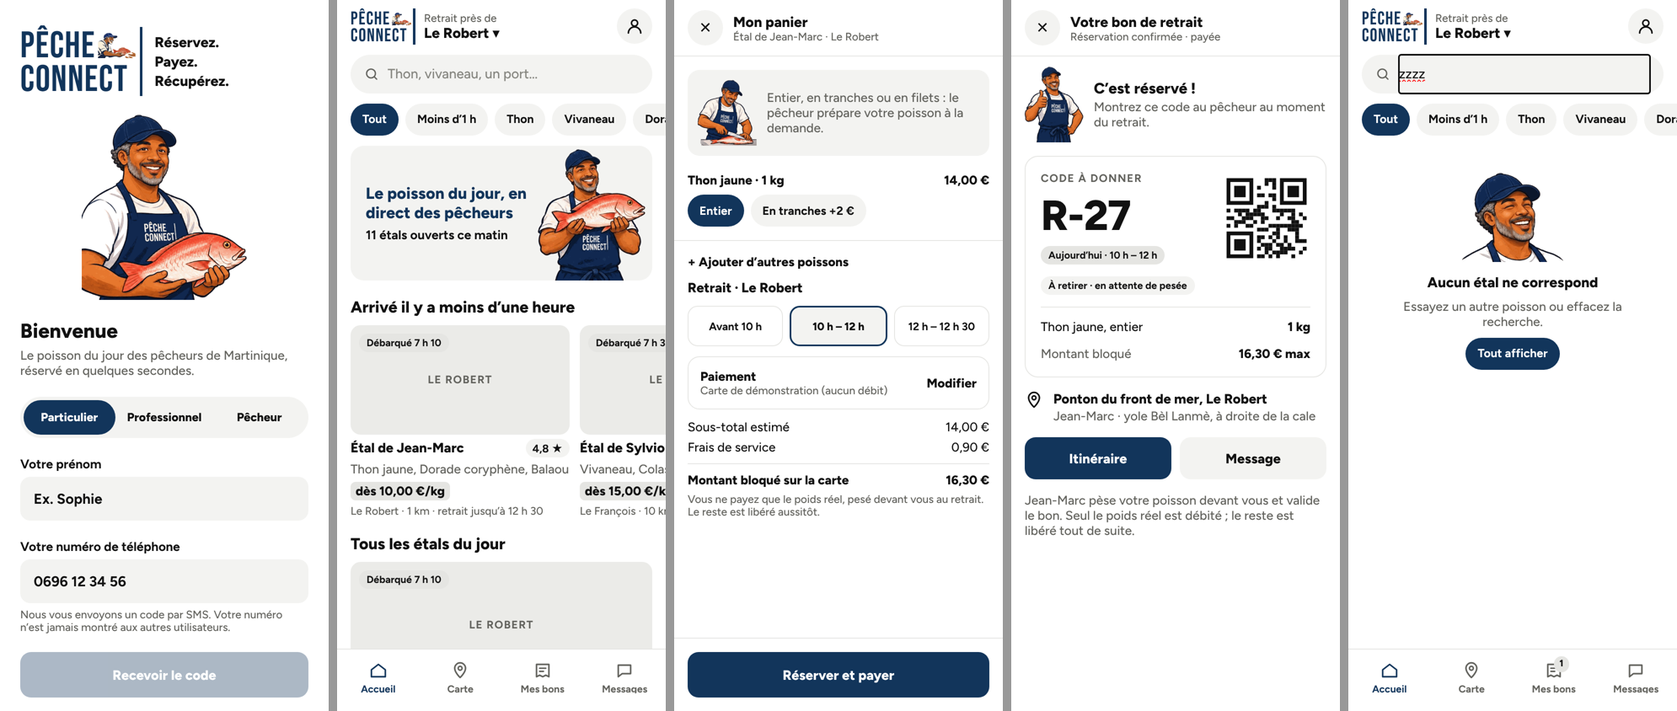
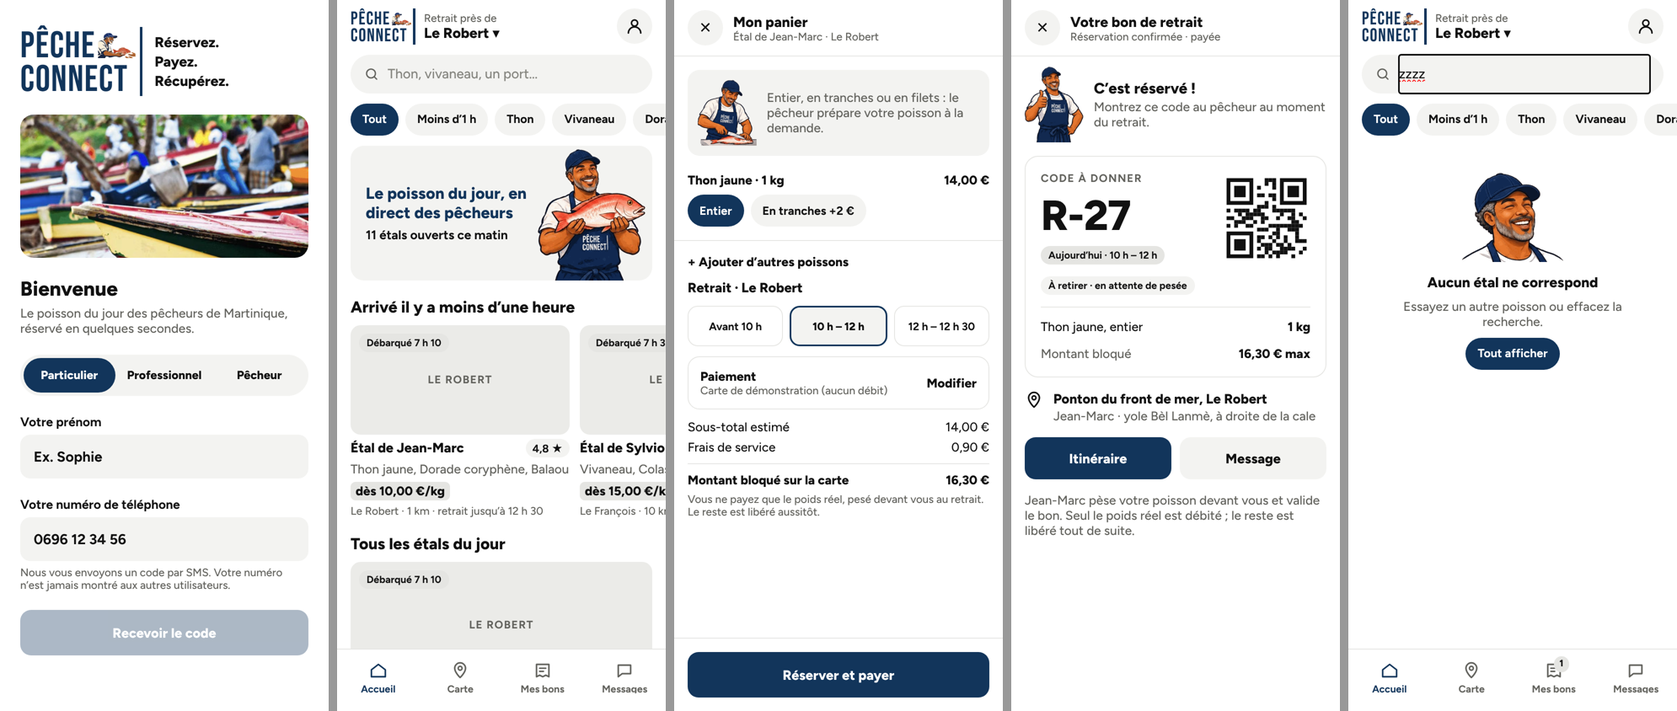
Écran de bienvenue : retour de la photo des yoles
Claude-Session: https://claude.ai/code/session_01BURN1duUK4xEwvo1i6Y61n

Changed region(s): [[0.0, 0.154, 0.1869, 0.9858]]

diff --git a/docs/_expo/static/js/web/entry-b222788ae8ac2c0107d4ce2872ae38a8.js b/docs/_expo/static/js/web/entry-b222788ae8ac2c0107d4ce2872ae38a8.js
@@ -818,8 +818,8 @@ __d(function(g,r,i,a,m,e,d){m.exports={uri:"/assets/assets/personnage/pouce.cd69
 __d(function(g,r,i,a,_m,_e,d){var e=r(d[0]);Object.defineProperty(_e,"__esModule",{value:!0}),_e.default=function(){const{id:e}=(0,s.useLocalSearchParams)(),v=(0,m.useApp)(),[h,b]=(0,n.useState)(null),j=v.e.convs[e];if((0,n.useEffect)(()=>{j&&!j.luClient&&v.marquerLu(e,'client')},[j?.messages.length]),!j)return(0,p.jsxs)(l.SafeAreaView,{style:{flex:1},children:[(0,p.jsx)(f.EnTete,{titre:"Messages"}),(0,p.jsx)(f.Vide,{titre:"Conversation introuvable",texte:"La messagerie s\u2019ouvre quand vous r\xe9servez chez un p\xeacheur."})]});const y=v.etal(j.etalId),P=v.e.bons.find(e=>e.code===j.bon);return(0,p.jsxs)(l.SafeAreaView,{edges:['top','bottom'],style:{flex:1,backgroundColor:x.couleurs.fond},children:[(0,p.jsx)(f.EnTete,{titre:y.pecheur,sousTitre:'\xc9tal de '+y.port+' \xb7 r\xe9pond en ~5 min'}),(0,p.jsx)(u.Fil,{conv:j,moi:"client",nomAutre:y.pecheur,rapides:['Vous \xeates o\xf9 ?','J\u2019arrive dans 10 min','Je suis en retard','Merci !'],onEnvoyer:s=>v.envoyer(e,s,'client'),onPosition:e=>b(e),avant:P?(0,p.jsxs)(t.default,{onPress:()=>s.router.push({pathname:'/bon/[code]',params:{code:P.code}}),style:{margin:16,marginBottom:0,flexDirection:'row',alignItems:'center',gap:10,borderWidth:1,borderColor:x.couleurs.ligne,borderRadius:12,padding:12},children:[(0,p.jsx)(f.T,{tresGras:!0,children:P.code}),(0,p.jsx)(f.T,{gris:!0,petit:!0,style:{flex:1},numberOfLines:1,children:v.resume(P.lignes)}),(0,p.jsx)(f.Pastille,{texte:P.creneau})]}):(0,p.jsx)(o.default,{})}),(0,p.jsx)(c.Itineraire,{visible:!!h,onFermer:()=>b(null),lieu:(y.lieu??y.port)+' \xb7 '+(h?.libelle??''),lat:h?.lat??0,lon:h?.lon??0})]})};var s=r(d[1]),n=r(d[2]),t=e(r(d[3])),o=e(r(d[4])),l=r(d[5]),u=r(d[6]),c=r(d[7]),f=r(d[8]),m=r(d[9]),x=r(d[10]),p=r(d[11])},716,[33,20,15,368,272,380,717,713,653,643,651,13]);
 __d(function(g,_r,i,a,_m,e,d){var r=_r(d[0]);Object.defineProperty(e,"__esModule",{value:!0}),e.Fil=function({conv:r,moi:b,nomAutre:y,rapides:m,onEnvoyer:j,onPosition:C,avant:v}){const[T,R]=(0,t.useState)(''),S=(0,t.useRef)(null);(0,t.useEffect)(()=>{setTimeout(()=>S.current?.scrollToEnd({animated:!0}),50)},[r.messages.length]);const k=r=>{r.trim()&&(j(r),R(''))};return(0,p.jsxs)(o.default,{behavior:void 0,style:{flex:1},children:[v,(0,p.jsxs)(n.default,{ref:S,contentContainerStyle:{padding:16,gap:10},children:[(0,p.jsxs)(u.default,{style:{alignSelf:'center',flexDirection:'row',gap:6,alignItems:'center',backgroundColor:f.couleurs.doux,borderRadius:10,padding:10,maxWidth:300},children:[(0,p.jsx)(h.IcVerrou,{couleur:f.couleurs.gris,taille:14}),(0,p.jsx)(x.T,{gris:!0,petit:!0,style:{flex:1,textAlign:'center'},children:"Messagerie ouverte apr\xe8s la r\xe9servation. Les num\xe9ros restent masqu\xe9s."})]}),r.messages.map(r=>{if('systeme'===r.auteur)return(0,p.jsx)(x.T,{gris:!0,petit:!0,style:{alignSelf:'center',textAlign:'center',backgroundColor:f.couleurs.doux,padding:8,borderRadius:10,overflow:'hidden'},children:r.texte},r.id);const t=r.auteur===b;return(0,p.jsxs)(u.default,{style:{alignSelf:t?'flex-end':'flex-start',maxWidth:'80%',gap:3,alignItems:t?'flex-end':'flex-start'},children:[r.position?(0,p.jsxs)(u.default,{style:{width:250,borderWidth:1,borderColor:f.couleurs.ligne,borderRadius:16,overflow:'hidden',backgroundColor:'#fff'},children:[(0,p.jsx)(u.default,{style:{height:90,backgroundColor:'#eceeec',alignItems:'center',justifyContent:'center'},children:(0,p.jsx)(u.default,{style:{width:22,height:22,borderRadius:11,backgroundColor:f.couleurs.marine,borderWidth:3,borderColor:'#fff'}})}),(0,p.jsxs)(u.default,{style:{padding:10,gap:8},children:[(0,p.jsx)(x.T,{tresGras:!0,children:"Position du p\xeacheur"}),(0,p.jsx)(x.T,{gris:!0,petit:!0,children:r.position.libelle}),C&&!t?(0,p.jsx)(l.default,{onPress:()=>C(r.position),style:{height:38,borderRadius:10,backgroundColor:f.couleurs.marine,alignItems:'center',justifyContent:'center'},children:(0,p.jsx)(x.T,{tresGras:!0,style:{color:'#fff'},children:"Y aller"})}):null]})]}):(0,p.jsx)(u.default,{style:{backgroundColor:t?f.couleurs.marine:f.couleurs.doux,paddingHorizontal:14,paddingVertical:10,borderRadius:18,borderBottomRightRadius:t?4:18,borderBottomLeftRadius:t?18:4},children:(0,p.jsx)(x.T,{style:{color:t?'#fff':f.couleurs.texte},children:r.texte})}),(0,p.jsx)(x.T,{petit:!0,style:{color:f.couleurs.grisClair,fontSize:11},children:(0,c.heure)(r.heure)})]},r.id)})]}),(0,p.jsx)(n.default,{horizontal:!0,showsHorizontalScrollIndicator:!1,style:{flexGrow:0},contentContainerStyle:{gap:8,paddingHorizontal:16,paddingBottom:10},children:m.map(r=>(0,p.jsx)(l.default,{onPress:()=>k(r),style:{borderWidth:1.5,borderColor:f.couleurs.marine,borderRadius:999,paddingHorizontal:12,paddingVertical:7},children:(0,p.jsx)(x.T,{gras:!0,petit:!0,children:r})},r))}),(0,p.jsxs)(u.default,{style:{flexDirection:'row',gap:10,alignItems:'center',padding:12,paddingHorizontal:16,borderTopWidth:1,borderTopColor:f.couleurs.ligne},children:[(0,p.jsx)(s.default,{value:T,onChangeText:R,placeholder:'\xc9crire \xe0 '+y+'\u2026',placeholderTextColor:f.couleurs.grisClair,onSubmitEditing:()=>k(T),returnKeyType:"send",style:{flex:1,height:44,borderRadius:22,backgroundColor:f.couleurs.doux,paddingHorizontal:16,fontSize:16,fontFamily:f.polices.normal,color:f.couleurs.texte}}),(0,p.jsx)(l.default,{accessibilityLabel:"Envoyer",onPress:()=>k(T),style:{width:44,height:44,borderRadius:22,backgroundColor:f.couleurs.marine,alignItems:'center',justifyContent:'center'},children:(0,p.jsx)(h.IcEnvoyer,{couleur:"#fff"})})]})]})};var t=_r(d[1]),o=r(_r(d[2])),l=(r(_r(d[3])),r(_r(d[4]))),n=r(_r(d[5])),s=r(_r(d[6])),u=r(_r(d[7])),c=_r(d[8]),f=_r(d[9]),h=_r(d[10]),x=_r(d[11]),p=_r(d[12])},717,[33,15,468,136,368,280,397,272,650,651,620,653,13]);
 __d(function(g,r,i,a,m,e,d){var n=r(d[0]);Object.defineProperty(e,"__esModule",{value:!0}),e.default=function(){const n=(0,u.useApp)(),f=n.e.session;return(0,x.jsxs)(l.SafeAreaView,{style:{flex:1,backgroundColor:p.couleurs.fond},children:[(0,x.jsx)(c.EnTete,{titre:"Mon compte",fermer:!0}),(0,x.jsxs)(s.default,{contentContainerStyle:{padding:16,gap:14},children:[(0,x.jsxs)(t.default,{style:{gap:2},children:[(0,x.jsx)(c.T,{tresGras:!0,style:{fontSize:22},children:f?.prenom}),(0,x.jsxs)(c.T,{gris:!0,children:['pecheur'===f?.role?'P\xeacheur professionnel':f?.pro?'Client professionnel':'Client'," \xb7 num\xe9ro terminant par ",f?.telephone.slice(-2)]})]}),f?.pro?(0,x.jsxs)(t.default,{style:{backgroundColor:p.couleurs.doux,borderRadius:12,padding:12,gap:2},children:[(0,x.jsx)(c.T,{tresGras:!0,children:f.pro.raison}),(0,x.jsxs)(c.T,{gris:!0,children:[f.pro.type," \xb7 SIRET ",f.pro.siret," \xb7 ",f.pro.commune]}),f.pro.adresse?(0,x.jsxs)(c.T,{gris:!0,children:["Livraison : ",f.pro.adresse]}):null]}):null,u.MODE_DEMO?(0,x.jsx)(c.T,{gris:!0,petit:!0,children:"Mode d\xe9mo : les donn\xe9es restent sur ce t\xe9l\xe9phone, aucun paiement r\xe9el."}):null,(0,x.jsx)(c.Bouton,{titre:"Me d\xe9connecter",onPress:()=>{n.deconnecter(),o.router.replace('/connexion')}}),u.MODE_DEMO?(0,x.jsx)(c.Bouton,{clair:!0,titre:"Recommencer la d\xe9mo (tout effacer)",onPress:()=>{n.reinitialiser(),o.router.replace('/connexion')}}):null]})]})};var o=r(d[1]),s=n(r(d[2])),t=n(r(d[3])),l=r(d[4]),c=r(d[5]),u=r(d[6]),p=r(d[7]),x=r(d[8])},718,[33,20,280,272,380,653,643,651,13]);
-__d(function(g,_r,i,a,m,e,d){var r=_r(d[0]);Object.defineProperty(e,"__esModule",{value:!0}),e.default=function(){const r=(0,y.useApp)(),[u,T]=(0,s.useState)('client'),[b,C]=(0,s.useState)(''),[M,D]=(0,s.useState)(''),[z,E]=(0,s.useState)('numero'),[_,O]=(0,s.useState)(''),[P,R]=(0,s.useState)(''),k=b.replace(/\D/g,''),V=k.length>=10;return(0,S.jsx)(x.SafeAreaView,{style:{flex:1,backgroundColor:j.couleurs.fond},children:(0,S.jsx)(n.default,{behavior:void 0,style:{flex:1},children:(0,S.jsxs)(c.default,{contentContainerStyle:{padding:24,gap:22},keyboardShouldPersistTaps:"handled",children:[(0,S.jsxs)(h.default,{style:{flexDirection:'row',alignItems:'center',gap:14,marginTop:8},children:[(0,S.jsx)(f.Logo,{taille:44}),(0,S.jsxs)(f.T,{tresGras:!0,style:{fontSize:17,lineHeight:23},children:["R\xe9servez.",'\n',"Payez.",'\n',"R\xe9cup\xe9rez."]})]}),'numero'===z?(0,S.jsxs)(S.Fragment,{children:[(0,S.jsx)(l.default,{source:_r(d[16]),style:{width:196,height:220,alignSelf:'center'},resizeMode:"contain",accessibilityLabel:"Le p\xeacheur P\xeache Connect pr\xe9sente un vivaneau"}),(0,S.jsxs)(h.default,{style:{gap:6},children:[(0,S.jsx)(f.T,{tresGras:!0,style:{fontSize:24},children:"Bienvenue"}),(0,S.jsx)(f.T,{gris:!0,children:"Le poisson du jour des p\xeacheurs de Martinique, r\xe9serv\xe9 en quelques secondes."})]}),(0,S.jsx)(h.default,{style:v.bascule,accessibilityRole:"radiogroup",children:[['client','Particulier'],['pro','Professionnel'],['pecheur','P\xeacheur']].map(([r,t])=>(0,S.jsx)(o.default,{accessibilityRole:"radio",accessibilityState:{checked:u===r},onPress:()=>T(r),style:[v.choix,u===r&&{backgroundColor:j.couleurs.marine}],children:(0,S.jsx)(f.T,{tresGras:!0,style:{color:u===r?j.couleurs.surMarine:j.couleurs.texte,fontSize:14},children:t})},r))}),'pro'===u?(0,S.jsx)(f.T,{gris:!0,petit:!0,style:{marginTop:-12},children:"Restaurant, poissonnerie, revendeur, traiteur : achats en volume et factures pour votre comptabilit\xe9."}):null,'pecheur'!==u?(0,S.jsxs)(h.default,{style:{gap:6},children:[(0,S.jsx)(f.T,{gras:!0,children:"Votre pr\xe9nom"}),(0,S.jsx)(p.default,{value:M,onChangeText:D,placeholder:"Ex. Sophie",style:v.champ,autoComplete:"given-name"})]}):null,(0,S.jsxs)(h.default,{style:{gap:6},children:[(0,S.jsx)(f.T,{gras:!0,children:"Votre num\xe9ro de t\xe9l\xe9phone"}),(0,S.jsx)(p.default,{value:b,onChangeText:C,placeholder:"0696 12 34 56",keyboardType:"phone-pad",style:v.champ,autoComplete:"tel"}),(0,S.jsx)(f.T,{gris:!0,petit:!0,children:"Nous vous envoyons un code par SMS. Votre num\xe9ro n\u2019est jamais montr\xe9 aux autres utilisateurs."})]}),(0,S.jsx)(f.Bouton,{titre:"Recevoir le code",onPress:()=>{R(''),E('code')},desactive:!V})]}):(0,S.jsxs)(S.Fragment,{children:[(0,S.jsxs)(h.default,{style:{gap:6},children:[(0,S.jsx)(f.T,{tresGras:!0,style:{fontSize:24},children:"Code re\xe7u par SMS"}),(0,S.jsxs)(f.T,{gris:!0,children:["Envoy\xe9 au ",b,". ",y.MODE_DEMO?'D\xe9mo : tapez '+y.CODE_SMS_DEMO+'.':'']})]}),(0,S.jsx)(p.default,{value:_,onChangeText:r=>O(r.replace(/\D/g,'').slice(0,6)),placeholder:"\u2022\u2022\u2022\u2022\u2022\u2022",keyboardType:"number-pad",style:[v.champ,v.code],autoComplete:"sms-otp",textContentType:"oneTimeCode",maxLength:6}),P?(0,S.jsx)(f.T,{style:{color:j.couleurs.alerte},gras:!0,children:P}):null,(0,S.jsx)(f.Bouton,{titre:"Valider",onPress:()=>{_===y.CODE_SMS_DEMO?'pecheur'!==u?'pro'!==u?(r.connecter(k,'client',M.trim()||'Client'),t.router.replace('/(client)')):t.router.replace({pathname:'/inscription-pro',params:{tel:k}}):t.router.replace({pathname:'/inscription-pecheur',params:{tel:k}}):R('Code incorrect. V\xe9rifiez le SMS re\xe7u'+(y.MODE_DEMO?' (d\xe9mo : '+y.CODE_SMS_DEMO+').':'.'))},desactive:6!==_.length}),(0,S.jsx)(o.default,{onPress:()=>{E('numero'),O(''),R('')},children:(0,S.jsx)(f.T,{gras:!0,style:{textAlign:'center',textDecorationLine:'underline'},children:"Changer de num\xe9ro"})})]})]})})})};var t=_r(d[1]),s=_r(d[2]),l=r(_r(d[3])),n=r(_r(d[4])),o=(r(_r(d[5])),r(_r(d[6]))),c=r(_r(d[7])),u=r(_r(d[8])),p=r(_r(d[9])),h=r(_r(d[10])),x=_r(d[11]),f=_r(d[12]),y=_r(d[13]),j=_r(d[14]),S=_r(d[15]);const v=u.default.create({bascule:{flexDirection:'row',backgroundColor:j.couleurs.doux,borderRadius:999,padding:4,gap:4},choix:{flex:1,alignItems:'center',paddingVertical:12,borderRadius:999},champ:{height:52,borderRadius:12,backgroundColor:j.couleurs.doux,paddingHorizontal:16,fontSize:17,fontFamily:j.polices.gras,color:j.couleurs.texte},code:{fontSize:28,letterSpacing:10,textAlign:'center'}})},719,[33,20,15,330,468,136,368,280,156,397,272,380,653,643,651,13,720]);
-__d(function(g,r,i,a,m,e,d){m.exports={uri:"/assets/assets/personnage/poisson-grand.115638790bf8f833d2bdf470b24d971f.png",width:560,height:628}},720,[]);
+__d(function(g,_r,i,a,m,e,d){var r=_r(d[0]);Object.defineProperty(e,"__esModule",{value:!0}),e.default=function(){const r=(0,y.useApp)(),[u,v]=(0,s.useState)('client'),[T,C]=(0,s.useState)(''),[M,D]=(0,s.useState)(''),[z,E]=(0,s.useState)('numero'),[_,O]=(0,s.useState)(''),[P,R]=(0,s.useState)(''),k=T.replace(/\D/g,''),V=k.length>=10;return(0,S.jsx)(x.SafeAreaView,{style:{flex:1,backgroundColor:j.couleurs.fond},children:(0,S.jsx)(o.default,{behavior:void 0,style:{flex:1},children:(0,S.jsxs)(c.default,{contentContainerStyle:{padding:24,gap:22},keyboardShouldPersistTaps:"handled",children:[(0,S.jsxs)(h.default,{style:{flexDirection:'row',alignItems:'center',gap:14,marginTop:8},children:[(0,S.jsx)(f.Logo,{taille:44}),(0,S.jsxs)(f.T,{tresGras:!0,style:{fontSize:17,lineHeight:23},children:["R\xe9servez.",'\n',"Payez.",'\n',"R\xe9cup\xe9rez."]})]}),'numero'===z?(0,S.jsxs)(S.Fragment,{children:[(0,S.jsx)(l.default,{source:_r(d[16]),style:{width:'100%',height:170,borderRadius:16},resizeMode:"cover",accessibilityLabel:"Yoles de p\xeacheurs sur la plage"}),(0,S.jsxs)(h.default,{style:{gap:6},children:[(0,S.jsx)(f.T,{tresGras:!0,style:{fontSize:24},children:"Bienvenue"}),(0,S.jsx)(f.T,{gris:!0,children:"Le poisson du jour des p\xeacheurs de Martinique, r\xe9serv\xe9 en quelques secondes."})]}),(0,S.jsx)(h.default,{style:b.bascule,accessibilityRole:"radiogroup",children:[['client','Particulier'],['pro','Professionnel'],['pecheur','P\xeacheur']].map(([r,t])=>(0,S.jsx)(n.default,{accessibilityRole:"radio",accessibilityState:{checked:u===r},onPress:()=>v(r),style:[b.choix,u===r&&{backgroundColor:j.couleurs.marine}],children:(0,S.jsx)(f.T,{tresGras:!0,style:{color:u===r?j.couleurs.surMarine:j.couleurs.texte,fontSize:14},children:t})},r))}),'pro'===u?(0,S.jsx)(f.T,{gris:!0,petit:!0,style:{marginTop:-12},children:"Restaurant, poissonnerie, revendeur, traiteur : achats en volume et factures pour votre comptabilit\xe9."}):null,'pecheur'!==u?(0,S.jsxs)(h.default,{style:{gap:6},children:[(0,S.jsx)(f.T,{gras:!0,children:"Votre pr\xe9nom"}),(0,S.jsx)(p.default,{value:M,onChangeText:D,placeholder:"Ex. Sophie",style:b.champ,autoComplete:"given-name"})]}):null,(0,S.jsxs)(h.default,{style:{gap:6},children:[(0,S.jsx)(f.T,{gras:!0,children:"Votre num\xe9ro de t\xe9l\xe9phone"}),(0,S.jsx)(p.default,{value:T,onChangeText:C,placeholder:"0696 12 34 56",keyboardType:"phone-pad",style:b.champ,autoComplete:"tel"}),(0,S.jsx)(f.T,{gris:!0,petit:!0,children:"Nous vous envoyons un code par SMS. Votre num\xe9ro n\u2019est jamais montr\xe9 aux autres utilisateurs."})]}),(0,S.jsx)(f.Bouton,{titre:"Recevoir le code",onPress:()=>{R(''),E('code')},desactive:!V})]}):(0,S.jsxs)(S.Fragment,{children:[(0,S.jsxs)(h.default,{style:{gap:6},children:[(0,S.jsx)(f.T,{tresGras:!0,style:{fontSize:24},children:"Code re\xe7u par SMS"}),(0,S.jsxs)(f.T,{gris:!0,children:["Envoy\xe9 au ",T,". ",y.MODE_DEMO?'D\xe9mo : tapez '+y.CODE_SMS_DEMO+'.':'']})]}),(0,S.jsx)(p.default,{value:_,onChangeText:r=>O(r.replace(/\D/g,'').slice(0,6)),placeholder:"\u2022\u2022\u2022\u2022\u2022\u2022",keyboardType:"number-pad",style:[b.champ,b.code],autoComplete:"sms-otp",textContentType:"oneTimeCode",maxLength:6}),P?(0,S.jsx)(f.T,{style:{color:j.couleurs.alerte},gras:!0,children:P}):null,(0,S.jsx)(f.Bouton,{titre:"Valider",onPress:()=>{_===y.CODE_SMS_DEMO?'pecheur'!==u?'pro'!==u?(r.connecter(k,'client',M.trim()||'Client'),t.router.replace('/(client)')):t.router.replace({pathname:'/inscription-pro',params:{tel:k}}):t.router.replace({pathname:'/inscription-pecheur',params:{tel:k}}):R('Code incorrect. V\xe9rifiez le SMS re\xe7u'+(y.MODE_DEMO?' (d\xe9mo : '+y.CODE_SMS_DEMO+').':'.'))},desactive:6!==_.length}),(0,S.jsx)(n.default,{onPress:()=>{E('numero'),O(''),R('')},children:(0,S.jsx)(f.T,{gras:!0,style:{textAlign:'center',textDecorationLine:'underline'},children:"Changer de num\xe9ro"})})]})]})})})};var t=_r(d[1]),s=_r(d[2]),l=r(_r(d[3])),o=r(_r(d[4])),n=(r(_r(d[5])),r(_r(d[6]))),c=r(_r(d[7])),u=r(_r(d[8])),p=r(_r(d[9])),h=r(_r(d[10])),x=_r(d[11]),f=_r(d[12]),y=_r(d[13]),j=_r(d[14]),S=_r(d[15]);const b=u.default.create({bascule:{flexDirection:'row',backgroundColor:j.couleurs.doux,borderRadius:999,padding:4,gap:4},choix:{flex:1,alignItems:'center',paddingVertical:12,borderRadius:999},champ:{height:52,borderRadius:12,backgroundColor:j.couleurs.doux,paddingHorizontal:16,fontSize:17,fontFamily:j.polices.gras,color:j.couleurs.texte},code:{fontSize:28,letterSpacing:10,textAlign:'center'}})},719,[33,20,15,330,468,136,368,280,156,397,272,380,653,643,651,13,720]);
+__d(function(g,r,i,a,m,e,d){m.exports={uri:"/assets/assets/ambiance/yoles.f038861d6e5803a5aaaa938fa335f031.jpg",width:1e3,height:971}},720,[]);
 __d(function(g,r,i,a,m,_e,d){var e=r(d[0]);Object.defineProperty(_e,"__esModule",{value:!0}),_e.default=function(){const{id:e}=(0,t.useLocalSearchParams)(),v=(0,h.useApp)(),[j,y]=(0,s.useState)(!1),b=v.e.convs[e];if((0,s.useEffect)(()=>{b&&!b.luPecheur&&v.marquerLu(e,'pecheur')},[b?.messages.length]),!b)return(0,p.jsxs)(l.SafeAreaView,{style:{flex:1},children:[(0,p.jsx)(f.EnTete,{titre:"Messages"}),(0,p.jsx)(f.Vide,{titre:"Conversation introuvable",texte:"Revenez \xe0 la liste des messages."})]});const C='Vous'===b.client?'Client d\xe9mo':b.client,T=v.etal(b.etalId),E=(t,s,l,u)=>(0,p.jsxs)(o.default,{onPress:()=>{v.envoyerPosition(e,l),y(!1)},style:{flexDirection:'row',alignItems:'center',gap:14,padding:14,borderRadius:14,marginBottom:8,backgroundColor:u?x.couleurs.marine:x.couleurs.doux},children:[(0,p.jsx)(n.default,{style:{width:40,height:40,borderRadius:12,backgroundColor:u?x.couleurs.accent:'#fff',alignItems:'center',justifyContent:'center'},children:'direct'===l?(0,p.jsx)(c.IcDirect,{}):(0,p.jsx)(c.IcCarte,{})}),(0,p.jsxs)(n.default,{style:{flex:1},children:[(0,p.jsx)(f.T,{tresGras:!0,style:{color:u?'#fff':x.couleurs.texte,fontSize:16},children:t}),(0,p.jsx)(f.T,{petit:!0,style:{color:u?'#fff':x.couleurs.gris,opacity:u?.8:1},children:s})]})]});return(0,p.jsxs)(l.SafeAreaView,{edges:['top','bottom'],style:{flex:1,backgroundColor:x.couleurs.fond},children:[(0,p.jsx)(f.EnTete,{titre:C,sousTitre:'Bon '+b.bon}),(0,p.jsx)(u.Fil,{conv:b,moi:"pecheur",nomAutre:C,rapides:['C\u2019est pr\xeat','Je vous attends','\xc0 tout de suite'],onEnvoyer:t=>v.envoyer(e,t,'pecheur'),avant:(0,p.jsx)(o.default,{onPress:()=>y(!0),style:{margin:16,marginBottom:0,height:46,borderRadius:12,backgroundColor:x.couleurs.marine,alignItems:'center',justifyContent:'center'},children:(0,p.jsx)(f.T,{tresGras:!0,style:{color:'#fff'},children:"Envoyer ma position"})})}),(0,p.jsxs)(f.Feuille,{visible:j,onFermer:()=>y(!1),titre:"Envoyer ma position",children:[E('Partager en direct','Jusqu\u2019\xe0 la fin du retrait','direct',!0),E('Envoyer ma position actuelle','Une seule fois','une-fois'),E('Mon point de vente habituel',T.lieu??T.port,'habituel'),(0,p.jsx)(f.T,{gris:!0,petit:!0,style:{marginTop:6},children:"Seuls vos clients du jour avec un bon pay\xe9 voient votre position."})]})]})};var t=r(d[1]),s=r(d[2]),o=e(r(d[3])),n=e(r(d[4])),l=r(d[5]),u=r(d[6]),c=r(d[7]),f=r(d[8]),h=r(d[9]),x=r(d[10]),p=r(d[11])},721,[33,20,15,368,272,380,717,620,653,643,651,13]);
 __d(function(g,r,i,a,m,_e,d){var e=r(d[0]);Object.defineProperty(_e,"__esModule",{value:!0}),_e.default=function(){const{id:e}=(0,t.useLocalSearchParams)(),y=(0,h.useApp)(),b=y.etal(e),[k,T]=(0,s.useState)(null);if(!b)return(0,f.jsx)(u.SafeAreaView,{style:{flex:1},children:(0,f.jsx)(p.Vide,{titre:"\xc9tal introuvable",texte:"Il n\u2019est peut-\xeatre plus en ligne aujourd\u2019hui.",action:"Retour \xe0 l\u2019accueil",onAction:()=>t.router.replace('/(client)')})});const C=y.e.panier&&y.e.panier.etalId!==b.id,P=y.e.panier?.etalId===b.id?y.e.panier.lignes.length:0,w=!!y.e.session?.pro,v=(e,t)=>{const s=y.kgPanier(b.id,e);y.reglerKg(b.id,e,0===s&&t>0?1:s+(w?1:.5)*t)},I=k?b.produits.find(e=>e.id===k.produitId):void 0;return(0,f.jsxs)(u.SafeAreaView,{edges:['bottom'],style:{flex:1,backgroundColor:j.couleurs.fond},children:[(0,f.jsxs)(o.default,{children:[(0,f.jsxs)(n.default,{style:[p.s.photo,{height:190,borderRadius:0}],children:[(0,f.jsx)(p.T,{gras:!0,gris:!0,style:{letterSpacing:1},children:b.port.toUpperCase()}),(0,f.jsx)(u.SafeAreaView,{edges:['top'],style:{position:'absolute',left:14,right:14,top:0,flexDirection:'row',justifyContent:'space-between'},children:(0,f.jsx)(p.Rond,{blanc:!0,label:"Retour",onPress:()=>t.router.canGoBack()?t.router.back():t.router.replace('/(client)'),children:(0,f.jsx)(p.T,{tresGras:!0,style:{fontSize:20},children:"\u2039"})})})]}),(0,f.jsxs)(n.default,{style:{padding:16,gap:8},children:[(0,f.jsxs)(p.T,{tresGras:!0,style:{fontSize:26},children:["\xc9tal de ",b.pecheur]}),(0,f.jsxs)(p.T,{gris:!0,children:[String(b.note).replace('.',',')," \u2605 (",b.avis," avis) \xb7 ",b.port," \xb7 ",y.km(b)," km"]}),(0,f.jsxs)(n.default,{style:{flexDirection:'row',flexWrap:'wrap',gap:6},children:[(0,f.jsx)(p.Pastille,{texte:'D\xe9barqu\xe9 '+(0,x.heure)(b.debarque)+' \xb7 '+y.depuis(b),fonce:!y.frais(b)}),(0,f.jsx)(p.Pastille,{texte:'Retrait jusqu\u2019\xe0 '+(0,x.heure)(b.limiteRetrait),style:{backgroundColor:j.couleurs.doux}}),(0,f.jsx)(p.Pastille,{texte:b.bateau,style:{backgroundColor:j.couleurs.doux}})]})]}),C?(0,f.jsxs)(n.default,{style:{marginHorizontal:16,marginBottom:12,padding:12,borderRadius:12,backgroundColor:j.couleurs.accentPale,gap:8},children:[(0,f.jsxs)(p.T,{children:["Votre panier contient d\xe9j\xe0 l\u2019\xe9tal de ",(0,f.jsx)(p.T,{tresGras:!0,children:y.etal(y.e.panier.etalId)?.pecheur}),". Un panier = un seul p\xeacheur."]}),(0,f.jsxs)(n.default,{style:{flexDirection:'row',gap:8},children:[(0,f.jsx)(p.Chip,{titre:"Vider le panier",actif:!0,onPress:y.viderPanier}),(0,f.jsx)(p.Chip,{titre:"Voir mon panier",onPress:()=>t.router.push('/panier')})]})]}):null,b.produits.map(e=>{const t=y.kgPanier(b.id,e.id),s=e.dispoKg>0,o=e.preparations.length>1?e.preparations[0].nom+' ou '+e.preparations[1].nom.toLowerCase()+' (+'+e.preparations[1].supplementKg+' \u20ac/kg)':e.preparations[0].nom;return(0,f.jsxs)(n.default,{style:{flexDirection:'row',alignItems:'center',gap:12,paddingHorizontal:16,paddingVertical:14,borderTopWidth:1,borderTopColor:j.couleurs.ligne,opacity:s?1:.5},children:[(0,f.jsxs)(n.default,{style:{flex:1,gap:3},children:[(0,f.jsx)(p.T,{tresGras:!0,style:{fontSize:16},children:e.espece}),(0,f.jsx)(p.T,{gris:!0,petit:!0,children:o}),(0,f.jsxs)(n.default,{style:{flexDirection:'row',alignItems:'center',gap:6},children:[(0,f.jsx)(p.Prix,{texte:(0,x.euro)(e.prixKg)+'/kg'}),(0,f.jsx)(p.T,{petit:!0,style:{color:!s||e.dispoKg<=4?j.couleurs.alerte:j.couleurs.vert},children:s?e.dispoKg<=4?'plus que '+(0,x.kg)(e.dispoKg):(0,x.kg)(e.dispoKg)+' dispo':'\xe9puis\xe9'})]})]}),!s||C?null:t?(0,f.jsx)(p.Stepper,{valeur:(0,x.kg)(t),onMoins:()=>v(e.id,-1),onPlus:()=>v(e.id,1),onValeur:()=>T({produitId:e.id,kg:t})}):(0,f.jsx)(l.default,{accessibilityLabel:'Ajouter '+e.espece,onPress:()=>v(e.id,1),style:{width:42,height:42,borderRadius:21,backgroundColor:j.couleurs.marine,alignItems:'center',justifyContent:'center'},children:(0,f.jsx)(p.T,{tresGras:!0,style:{color:'#fff',fontSize:20},children:"+"})})]},e.id)}),(0,f.jsxs)(n.default,{style:{flexDirection:'row',gap:10,padding:16,borderTopWidth:1,borderTopColor:j.couleurs.ligne},children:[(0,f.jsx)(c.IcVerrou,{couleur:j.couleurs.gris,taille:18}),(0,f.jsxs)(p.T,{gris:!0,petit:!0,style:{flex:1},children:["L\u2019adresse exacte et la messagerie avec ",b.pecheur," s\u2019ouvrent apr\xe8s la r\xe9servation."]})]})]}),(0,f.jsx)(n.default,{style:{padding:16,borderTopWidth:1,borderTopColor:j.couleurs.ligne},children:(0,f.jsx)(p.Bouton,{titre:"Voir mon panier",desactive:!P,onPress:()=>t.router.push('/panier'),gauche:(0,f.jsx)(n.default,{style:{backgroundColor:j.couleurs.accent,borderRadius:999,paddingHorizontal:9,paddingVertical:2},children:(0,f.jsx)(p.T,{tresGras:!0,petit:!0,children:P})}),droite:(0,f.jsxs)(p.T,{tresGras:!0,style:{color:'#fff'},children:["env. ",(0,x.euro)(P?(0,x.sousTotal)(y.e.panier.lignes):0)]})})}),(0,f.jsx)(p.Feuille,{visible:!!k&&!!I,onFermer:()=>T(null),titre:I?.espece??'',children:k&&I?(0,f.jsxs)(n.default,{style:{gap:14},children:[(0,f.jsxs)(p.T,{gris:!0,children:[(0,x.euro)(I.prixKg),"/kg \xb7 ",(0,x.kg)(I.dispoKg)," disponibles \xb7 vous payez le poids r\xe9el pes\xe9"]}),(0,f.jsxs)(n.default,{style:{flexDirection:'row',alignItems:'center',justifyContent:'center',gap:18},children:[(0,f.jsx)(l.default,{onPress:()=>T(Object.assign({},k,{kg:Math.max(0,Math.round(10*(k.kg-.1))/10)})),style:{width:76,height:56,borderRadius:16,backgroundColor:j.couleurs.doux,alignItems:'center',justifyContent:'center'},children:(0,f.jsx)(p.T,{tresGras:!0,children:"\u2212100 g"})}),(0,f.jsxs)(n.default,{style:{alignItems:'center',minWidth:120},children:[(0,f.jsx)(p.T,{tresGras:!0,style:{fontSize:40},children:(0,x.kg)(k.kg)}),(0,f.jsxs)(p.T,{gras:!0,gris:!0,children:["\u2248 ",(0,x.euro)(k.kg*I.prixKg)]})]}),(0,f.jsx)(l.default,{onPress:()=>T(Object.assign({},k,{kg:Math.min(I.dispoKg,Math.round(10*(k.kg+.1))/10)})),style:{width:76,height:56,borderRadius:16,backgroundColor:j.couleurs.doux,alignItems:'center',justifyContent:'center'},children:(0,f.jsx)(p.T,{tresGras:!0,children:"+100 g"})})]}),(0,f.jsx)(n.default,{style:{flexDirection:'row',flexWrap:'wrap',gap:8,justifyContent:'center'},children:(w?[1,2,5,10,20]:[.5,1,1.5,2,3,5]).filter(e=>e<=I.dispoKg).map(e=>(0,f.jsx)(p.Chip,{titre:e<1?'500 g':(0,x.kg)(e),actif:Math.abs(k.kg-e)<.01,onPress:()=>T(Object.assign({},k,{kg:e}))},e))}),(0,f.jsx)(p.Bouton,{titre:k.kg>0?'Valider '+(0,x.kg)(k.kg):'Retirer du panier',onPress:()=>{y.reglerKg(b.id,k.produitId,k.kg),T(null)}})]}):null})]})};var t=r(d[1]),s=r(d[2]),l=e(r(d[3])),o=e(r(d[4])),n=e(r(d[5])),u=r(d[6]),c=r(d[7]),p=r(d[8]),x=r(d[9]),h=r(d[10]),j=r(d[11]),f=r(d[12])},722,[33,20,15,368,280,272,380,620,653,650,643,651,13]);
 __d(function(g,r,i,a,m,_e,d){Object.defineProperty(_e,"__esModule",{value:!0}),_e.default=function(){const{e:t}=(0,s.useApp)();return t.session?'pecheur'===t.session.role?(0,n.jsx)(e.Redirect,{href:'verifie'===t.session.statutPecheur?'/(pecheur)/arrivage':'/inscription-pecheur'}):(0,n.jsx)(e.Redirect,{href:"/(client)"}):(0,n.jsx)(e.Redirect,{href:"/connexion"})};var e=r(d[0]),s=r(d[1]),n=r(d[2])},723,[20,643,13]);

diff --git a/app/app/connexion.tsx b/app/app/connexion.tsx
@@ -39,7 +39,7 @@ export default function Connexion() {
 
         {etape === 'numero' ? (
           <>
-            <Image source={require('../assets/personnage/poisson-grand.png')} style={{ width: 196, height: 220, alignSelf: 'center' }} resizeMode="contain" accessibilityLabel="Le pêcheur Pêche Connect présente un vivaneau" />
+            <Image source={require('../assets/ambiance/yoles.jpg')} style={{ width: '100%', height: 170, borderRadius: 16 }} resizeMode="cover" accessibilityLabel="Yoles de pêcheurs sur la plage" />
                         <View style={{ gap: 6 }}>
               <T tresGras style={{ fontSize: 24 }}>Bienvenue</T>
               <T gris>Le poisson du jour des pêcheurs de Martinique, réservé en quelques secondes.</T>

diff --git a/docs/404.html b/docs/404.html
@@ -33,6 +33,6 @@
     </noscript>
     <!-- The root element for your Expo app. -->
     <div id="root"></div>
-  <script src="/_expo/static/js/web/entry-faa399afd2a2e080b238abb2ba14e62d.js" defer></script>
+  <script src="/_expo/static/js/web/entry-b222788ae8ac2c0107d4ce2872ae38a8.js" defer></script>
 </body>
 </html>

diff --git a/docs/index.html b/docs/index.html
@@ -33,6 +33,6 @@
     </noscript>
     <!-- The root element for your Expo app. -->
     <div id="root"></div>
-  <script src="/_expo/static/js/web/entry-faa399afd2a2e080b238abb2ba14e62d.js" defer></script>
+  <script src="/_expo/static/js/web/entry-b222788ae8ac2c0107d4ce2872ae38a8.js" defer></script>
 </body>
 </html>

diff --git a/CLAUDE.md b/CLAUDE.md
@@ -37,7 +37,7 @@ Le porteur du projet n'est pas développeur : explique les choix simplement, en 
 - **Typo** : Figtree pour toute l'interface ; Bebas Neue seulement pour le logo.
 - **Personnage « le pêcheur Pêche Connect » (planche validée par le porteur le 17/11/2026)** : casquette marine, barbe grise, t-shirt blanc, tablier marine marqué « PÊCHE CONNECT ». Poses détourées (fond transparent) dans `app/assets/personnage/`, chacune là où sa posture convient :
   - **logo** (`Logo`, tous les en-têtes) : **retour le 17/11/2026, à la demande du porteur, au premier pêcheur (casquette bleue) qui tend son poisson**, `app/assets/embleme/personnage.png`, juste après « PÊCHE », sur fond blanc (même composition que la photo de profil `design/logos/photo-profil-beige-pecheur.png`, que le porteur utilise sur WhatsApp). `tete-face.png` n'est plus utilisé ;
-  - `poisson-grand.png` : **connexion / bienvenue** ;
+  - **connexion / bienvenue** : **photo des yoles `app/assets/ambiance/yoles.jpg` remise le 17/11/2026 à la demande du porteur** (`poisson-grand.png` n'y est plus) ;
   - `poisson-fier.png` : **bandeau de l'accueil** (« Le poisson du jour… ») ;
   - `decoupe.png` : **panier**, encart « Entier, en tranches ou en filets » ;
   - `pouce.png` : **bon de retrait**, « C'est réservé ! » (masqué une fois retiré) ;
